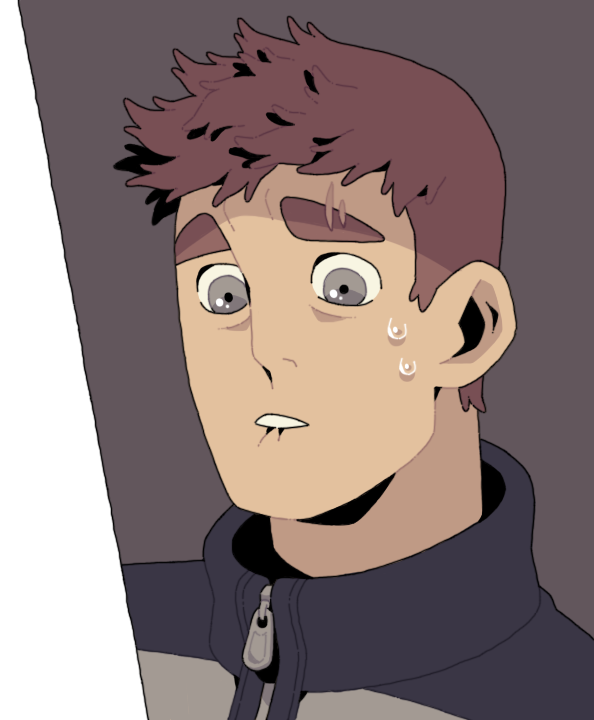
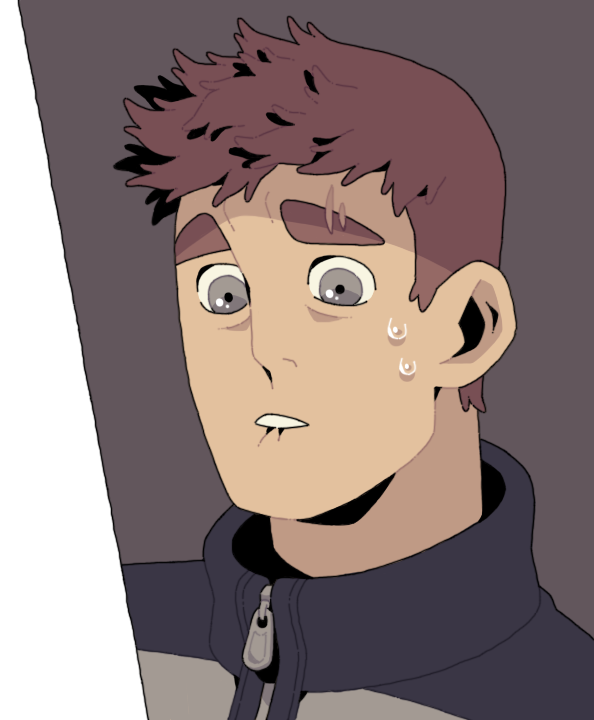
Choice images slightly changed + cursor is hidden while choice

Changed region(s): [[0.4545, 0.275, 0.6667, 0.4583], [0.2121, 0.0917, 0.3333, 0.1528]]

diff --git a/src/styles/style.css b/src/styles/style.css
@@ -182,10 +182,9 @@ body {
 
 #nv-variants{
     box-sizing: border-box;
-    height: 371.875px;
+    height: 450px;
     width: 581.25px;
     position: absolute;
-    top: 39.0625px;
     left: -18.75px;
     background-image: url("../images/interface/nv-choice/panels-bg.png");
     background-size: contain;
@@ -199,7 +198,7 @@ body {
 
 .nv-var-pannel{
     box-sizing: border-box;
-    height: 231.25px;
+    height: 450px;
     width: 158.125px;
     margin: 1px;
     background-image: url("../images/interface/nv-choice/panel.png");
@@ -210,7 +209,7 @@ body {
     flex-direction: column;
     justify-content: space-between;
     align-items: center;
-    padding: 30px 30px;
+    padding: 139.375px 30px;
     font-family: 'AlumniSans';
     font-size: 20px;
     line-height: 16px;
@@ -218,7 +217,6 @@ body {
     color: #000000;
 }
 .nv-var-pannel:hover{
-    cursor: pointer;
     background-image: url("../images/interface/nv-choice/panel-hover.png");
 }
 .nv-var-txt{

diff --git a/src/scripts/script.js b/src/scripts/script.js
@@ -433,12 +433,14 @@ const drawScene06 = (longType, scene1, scene2, scene3) => {
     animateParamChange('nv-variants', 'left', 2, 'px', -18.75, -600, 0.05);
     animateParamChange('nv-choice-bg', 'opacity', 5, '', 1, 0, 0.1, () => {
       hideElem('nv-choice');
+      setParam('html', 'cursor', 'default');
       drawNext = true;
     });
     flags[1] = false;
   };
 
   flags[0] = true;
+  setParam('html', 'cursor', 'none');
   if (scene3 === '') {
     setParam('nv-var3', 'display', 'none');
   } else {
